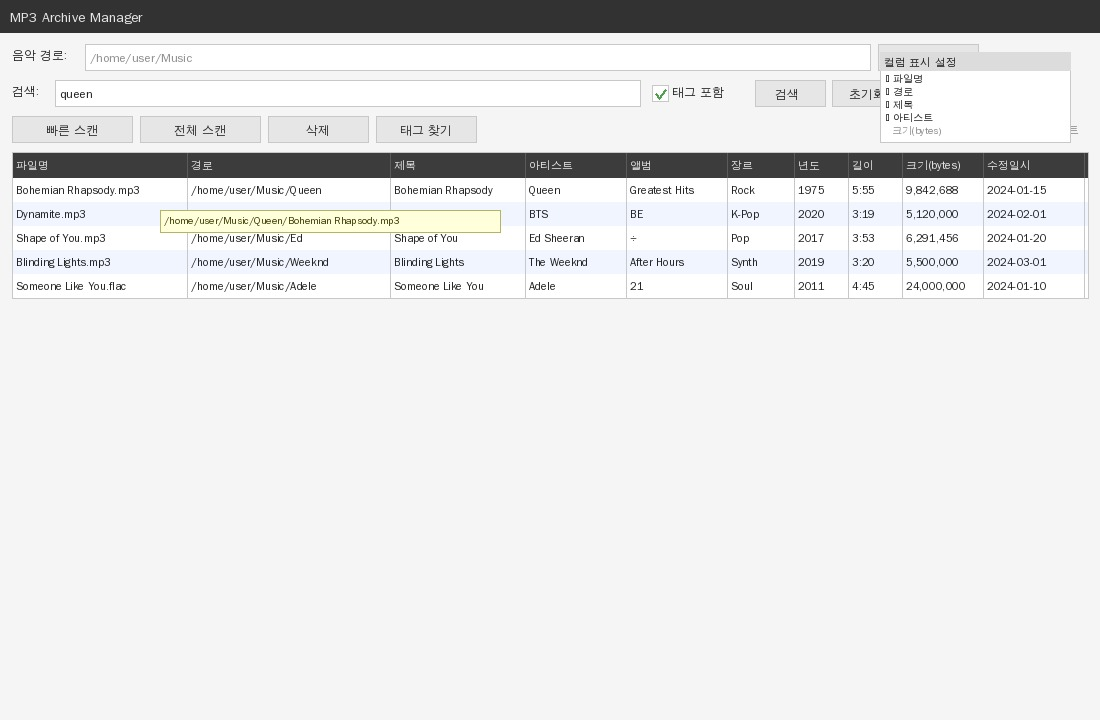
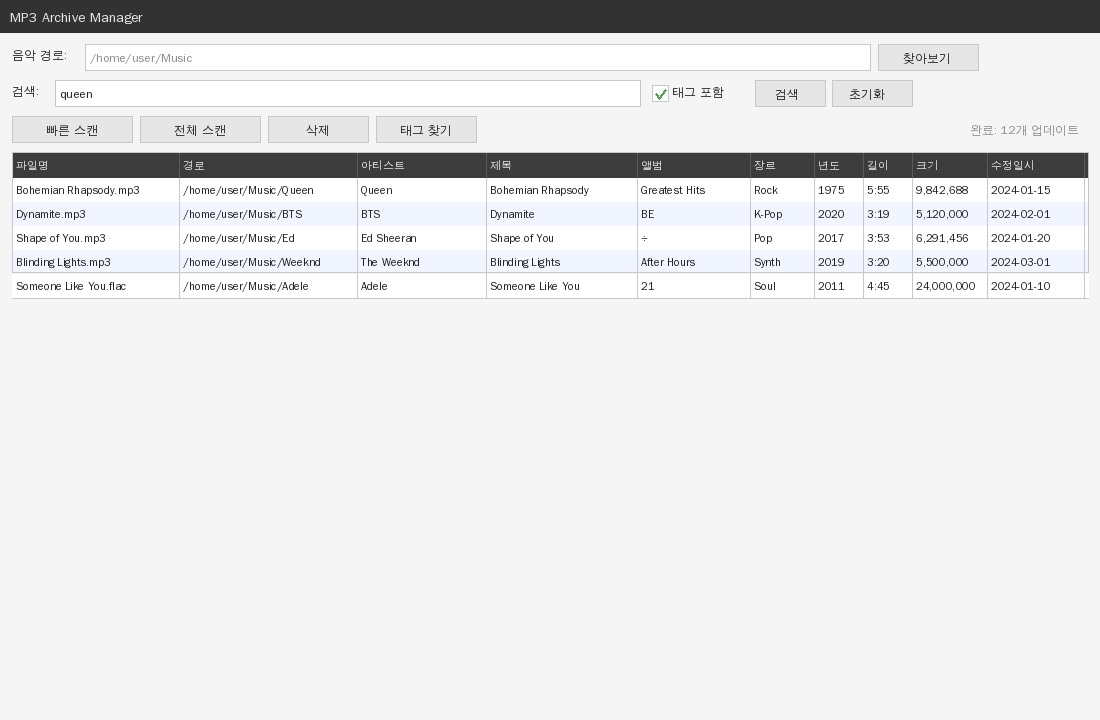
feat: reorder columns, set initial widths, allow drag-and-drop reorder
Change column order to: 파일명, 경로, 아티스트, 제목, 앨범, 장르, 년도,
길이, 크기, 생성일시, 수정일시.  Set initial pixel widths for fixed
columns so artist (150) and title (Stretch) are immediately readable.
Title and path columns use Stretch; other columns use Interactive mode
so users can resize them.

Enable setSectionsMovable(True) so columns can be reordered by dragging
the header.  Save the resulting visual order to QSettings
(table/column_order) via sectionMoved signal and restore it on startup.

https://claude.ai/code/session_01YFDPmPzoyxfymLkiNHqsrJ

diff --git a/src/main_window.py b/src/main_window.py
@@ -189,16 +189,36 @@ class MainWindow(QMainWindow):
         self.chk_search_tags.toggled.connect(self._on_search_text_changed)
 
     def _setup_table(self) -> None:
-        """Apply column resize modes, enable sorting, and set up context menus."""
+        """Apply column resize modes, set initial widths, and set up context menus.
+
+        Column order: 파일명(0) 경로(1) 아티스트(2) 제목(3) 앨범(4)
+                      장르(5) 년도(6) 길이(7) 크기(8) 생성일시(9) 수정일시(10)
+        """
         hdr = self.table.horizontalHeader()
+        # Stretch columns fill available space
         hdr.setSectionResizeMode(0, QHeaderView.ResizeMode.Stretch)
         hdr.setSectionResizeMode(1, QHeaderView.ResizeMode.Stretch)
-        hdr.setSectionResizeMode(2, QHeaderView.ResizeMode.Stretch)
+        hdr.setSectionResizeMode(3, QHeaderView.ResizeMode.Stretch)
+        # Fixed-width columns are still user-resizable
+        for col in (2, 4, 5, 6, 7, 8, 9, 10):
+            hdr.setSectionResizeMode(col, QHeaderView.ResizeMode.Interactive)
+        hdr.setSectionsMovable(True)
+        hdr.sectionMoved.connect(self._save_column_order)
         hdr.setContextMenuPolicy(Qt.ContextMenuPolicy.CustomContextMenu)
         hdr.customContextMenuRequested.connect(self._on_column_visibility_menu)
         self.table.setSortingEnabled(True)
         self.table.setContextMenuPolicy(Qt.ContextMenuPolicy.CustomContextMenu)
         self.table.customContextMenuRequested.connect(self._on_table_context_menu)
+        # Initial pixel widths for non-stretch columns
+        self.table.setColumnWidth(2,  150)   # 아티스트
+        self.table.setColumnWidth(4,  130)   # 앨범
+        self.table.setColumnWidth(5,   70)   # 장르
+        self.table.setColumnWidth(6,   50)   # 년도
+        self.table.setColumnWidth(7,   55)   # 길이
+        self.table.setColumnWidth(8,   90)   # 크기
+        self.table.setColumnWidth(9,  130)   # 생성일시
+        self.table.setColumnWidth(10, 130)   # 수정일시
+        self._restore_column_order()
         self._restore_column_visibility()
 
     def _restore_path(self) -> None:
@@ -458,8 +478,8 @@ class MainWindow(QMainWindow):
 
             self.table.setItem(row, 0, filename_item)
             self.table.setItem(row, 1, path_item)
-            self.table.setItem(row, 2, _item(f["title"] or "-"))
-            self.table.setItem(row, 3, _item(f["artist"] or "-"))
+            self.table.setItem(row, 2, _item(f["artist"] or "-"))
+            self.table.setItem(row, 3, _item(f["title"] or "-"))
             self.table.setItem(row, 4, _item(f["album"] or "-"))
             self.table.setItem(row, 5, _item(f.get("genre") or "-"))
             self.table.setItem(row, 6, _item(f.get("year") or "-"))
@@ -496,6 +516,25 @@ class MainWindow(QMainWindow):
         col = chosen.data()
         self.table.setColumnHidden(col, not self.table.isColumnHidden(col))
         self._save_column_visibility()
+
+    def _save_column_order(self) -> None:
+        """Persist the current visual column order to QSettings."""
+        hdr = self.table.horizontalHeader()
+        order = [hdr.logicalIndex(vi) for vi in range(hdr.count())]
+        self._settings.setValue("table/column_order", order)
+
+    def _restore_column_order(self) -> None:
+        """Restore the saved visual column order from QSettings."""
+        order = self._settings.value("table/column_order", [])
+        if isinstance(order, str):
+            order = [order]
+        if not order:
+            return
+        hdr = self.table.horizontalHeader()
+        for visual_idx, logical_idx in enumerate(order):
+            current_visual = hdr.visualIndex(int(logical_idx))
+            if current_visual != visual_idx:
+                hdr.moveSection(current_visual, visual_idx)
 
     def _save_column_visibility(self) -> None:
         """Persist the set of hidden column indices to QSettings."""

diff --git a/test/test_main_window.py b/test/test_main_window.py
@@ -193,7 +193,7 @@ class TestSearch(unittest.TestCase):
         win = self._make_window()
         win.search_edit.setText("Queen")
         self.assertEqual(win.table.rowCount(), 1)
-        self.assertEqual(win.table.item(0, 3).text(), "Queen")
+        self.assertEqual(win.table.item(0, 2).text(), "Queen")
         win.close()
 
     def test_realtime_search_empty_restores_all(self):